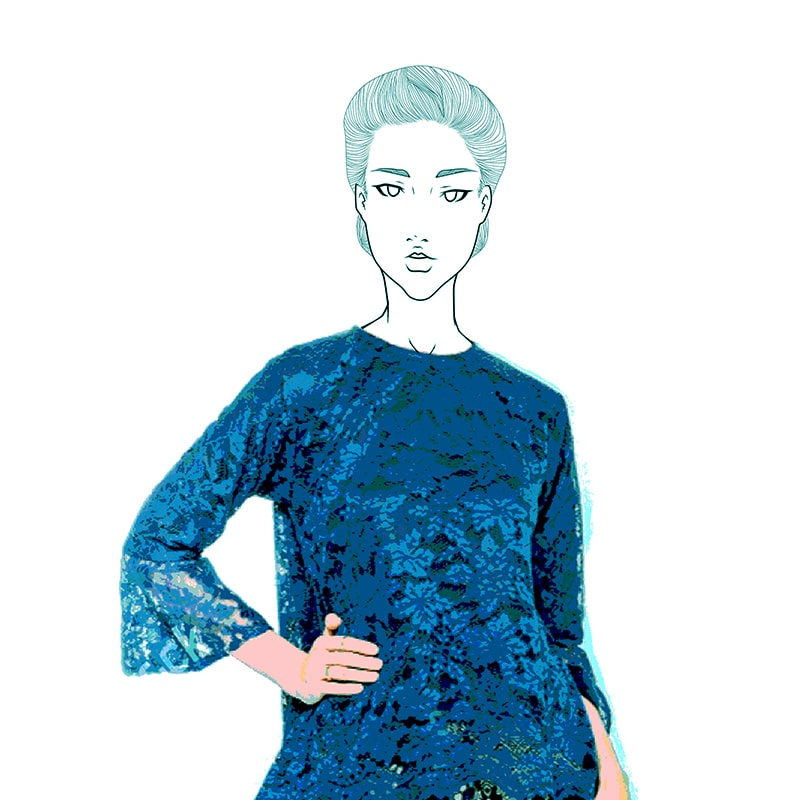
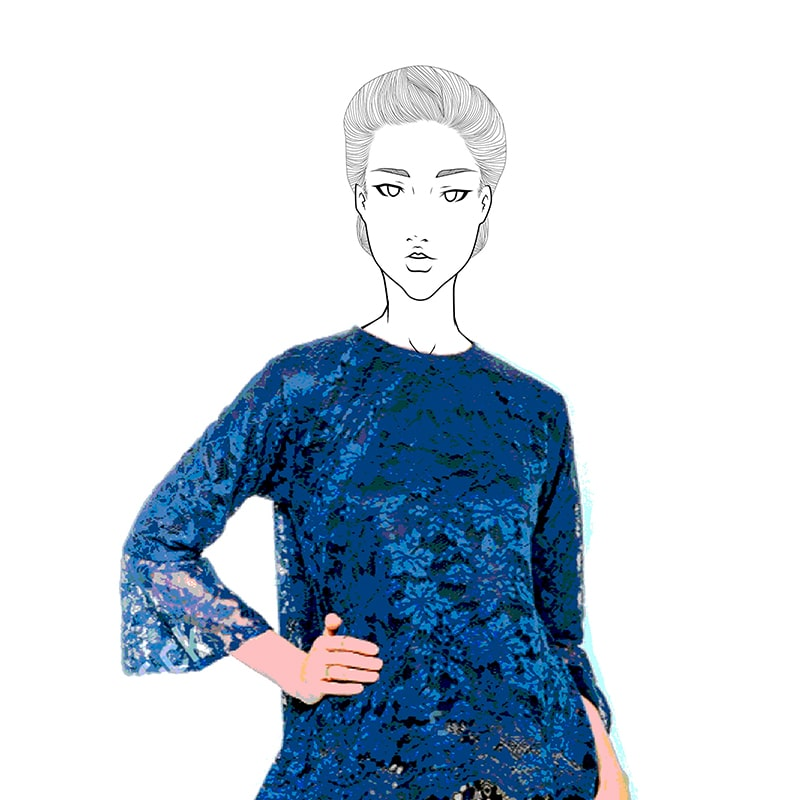
update

diff --git a/lineart.html b/lineart.html
@@ -2,7 +2,7 @@
 <html>
 <head>
   <title>Layout Master</title>
-  <link rel="stylesheet" type="text/css" href="./stylePoster.css">
+  <link rel="stylesheet" type="text/css" href="./styleLineart.css">
 </head>
 <body>
   <nav class="sticky">
@@ -14,35 +14,15 @@
 
   <div class="gallery">
     <div class="gallery__item gallery__item--1">
-      <img src="poster/1.png" class="gallery__img" alt="Image 1">
+      <img src="lineart/1.jpg" class="gallery__img" alt="Image 1">
     </div>
 
     <div class="gallery__item gallery__item--2">
-      <img src="poster/2.png" class="gallery__img" alt="Image 2">
+      <img src="lineart/2.jpg" class="gallery__img" alt="Image 2">
     </div>
 
     <div class="gallery__item gallery__item--3">
-      <img src="poster/3.png" class="gallery__img" alt="Image 3">
-    </div>
-
-    <div class="gallery__item gallery__item--4">
-      <img src="poster/4.png" class="gallery__img" alt="Image 4">
-    </div>
-
-    <div class="gallery__item gallery__item--5">
-      <img src="poster/5.jpg" class="gallery__img" alt="Image 5">
-    </div>
-
-    <div class="gallery__item gallery__item--6">
-      <img src="poster/6.jpg" class="gallery__img" alt="Image 6">
-    </div>
-
-    <div class="gallery__item gallery__item--7">
-      <img src="poster/7.jpg" class="gallery__img" alt="Image 7">
-    </div>
-
-    <div class="gallery__item gallery__item--8">
-      <img src="poster/8.jpg" class="gallery__img" alt="Image 8">
+      <img src="lineart/3.jpg" class="gallery__img" alt="Image 3">
     </div>
 
   </div>

diff --git a/styleLineart.css b/styleLineart.css
@@ -44,7 +44,7 @@ li {
 }
 
 a {
-    color: #ffffff;
+    color: #000000;
     text-decoration: underline;
 }
 
@@ -76,60 +76,25 @@ a {
 
 .gallery__item--1 {
     grid-column-start: 1;
-    grid-column-end: 5;
+    grid-column-end: 9;
     grid-row-start: 1;
-    grid-row-end: 9;
+    grid-row-end: 13;
 }
 
 .gallery__item--2 {
-    grid-column-start: 5;
-    grid-column-end: 7;
-    grid-row-start: 1;
-    grid-row-end: 5;
+    grid-column-start: 1;
+    grid-column-end: 5;
+    grid-row-start: 13;
+    grid-row-end: 15;
 }
 
 .gallery__item--3 {
-    grid-column-start: 7;
-    grid-column-end: 9;
-    grid-row-start: 5;
-    grid-row-end: 9;
-}
-
-.gallery__item--4 {
-    grid-column-start: 5;
-    grid-column-end: 7;
-    grid-row-start: 5;
-    grid-row-end: 9;
-}
-
-
-.gallery__item--5 {
-    grid-column-start: 7;
-    grid-column-end: 9;
-    grid-row-start: 1;
-    grid-row-end: 5;
-}
-
-.gallery__item--6 {
-    grid-column-start: 1;
-    grid-column-end: 9;
-    grid-row-start: 9;
-    grid-row-end: 11;
-}
-
-.gallery__item--7 {
-    grid-column-start: 1;
-    grid-column-end: 5;
-    grid-row-start: 11;
-    grid-row-end: 13;
-}
-
-.gallery__item--8 {
     grid-column-start: 5;
     grid-column-end: 9;
-    grid-row-start: 11;
-    grid-row-end: 13;
+    grid-row-start: 13;
+    grid-row-end: 15;
 }
+
 /***********************************************************************
  *  Footer
  **********************************************************************/
